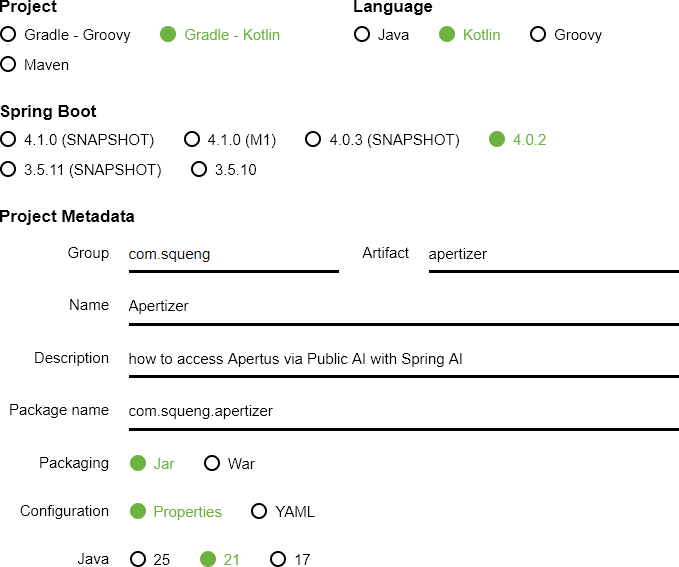
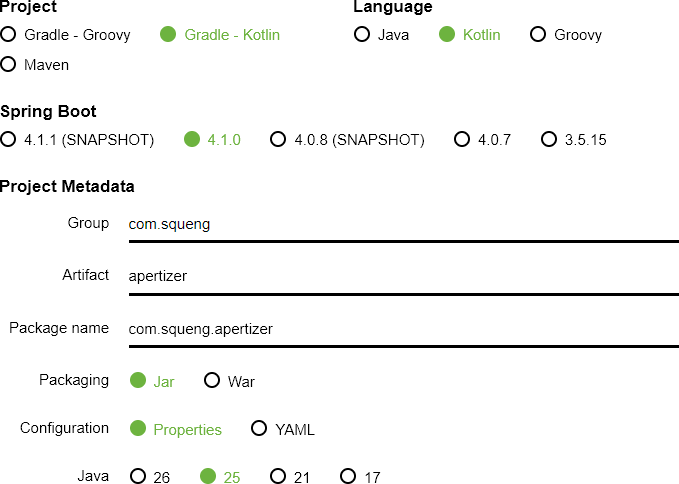
added JWI

diff --git a/apertus.md b/apertus.md
@@ -20,8 +20,6 @@ There are various ways to create a Spring Boot project. My preferred way is to u
 
 ![Basics](SIleft.png)
 
-(At the time of this writing, Kotlin does not support Java 25 yet, which is why Java 21 is selected instead.)
-
 Even though Spring AI does not explicitly support Apertus and/or Public AI, we do not have to extend Spring's [AI Model API](https://docs.spring.io/spring-ai/reference/api/index.html#_ai_model_api) as [Wells points out in the *OpenAI compatibility* box on page 13](https://www.manning.com/books/spring-ai-in-action):
 
 > *"Although most AI service providers have their own proprietary APIs, many offer OpenAI-compatible APIs either as their own API or as an alternative to their API. AI service providers such as Groq (https://groq.com/) and Google Gemini, tools such as vLLM (https://docs.vllm.ai/) and LiteLLM (https://www.litellm.ai/), and even Ollama offer APIs that are mostly compatible with OpenAI’s API. You can use Spring AI’s OpenAI starter to integrate with these APIs in the same way you would with OpenAI itself."*

diff --git a/stapel.md b/stapel.md
@@ -11,6 +11,7 @@ description: building the right thing right
 👍👍 oder wenigstens 👍:
 
 <!-- June 2026 -->
+- [Java Web Internals](https://www.packtpub.com/en-ch/product/java-web-internals-9781835881491)
 - [The Agentic AI Book](https://book.ryanrad.org/)
 <!-- May 2026 -->
 - [Agentic Coding with Claude Code](https://www.packtpub.com/en-ch/product/agentic-coding-with-claude-code-9781806022588)